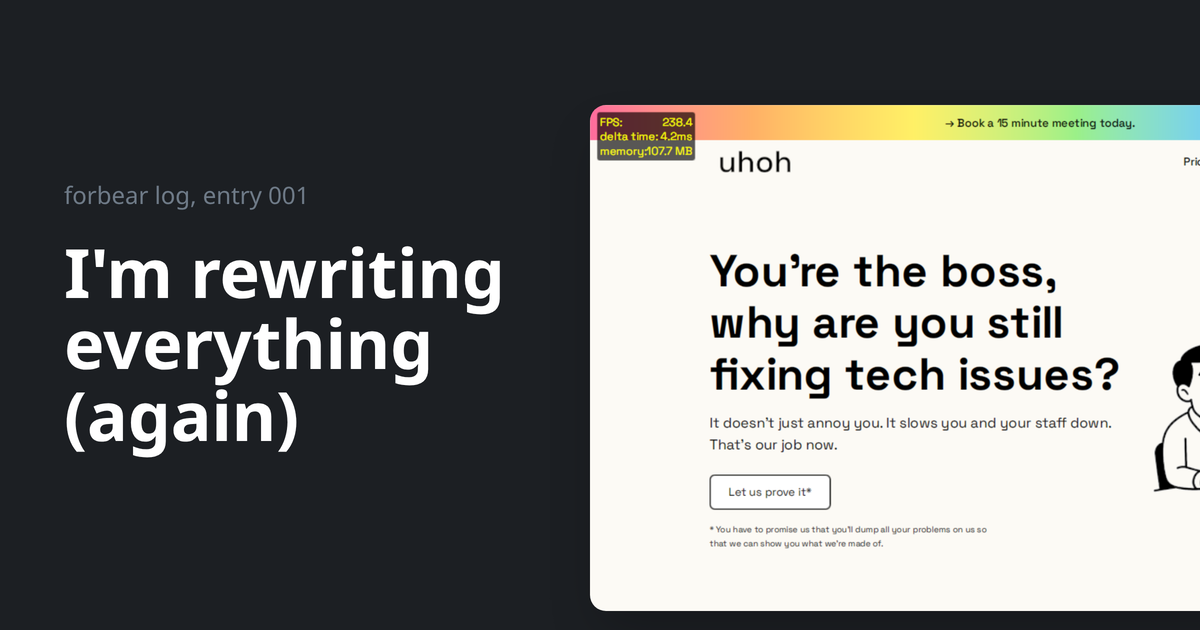
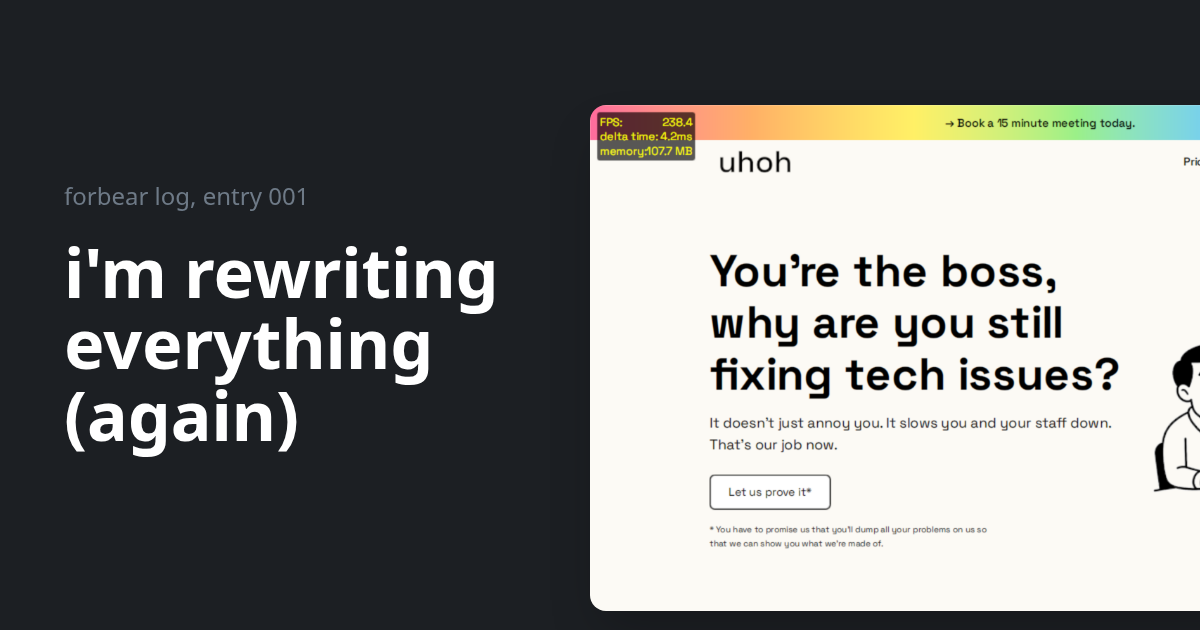
normalize into lower case mostly

Changed region(s): [[0.0308, 0.3921, 0.4317, 0.5127], [0.0617, 0.3016, 0.2467, 0.3317]]

diff --git a/www/log/001-im-rewriting-everything-again.html b/www/log/001-im-rewriting-everything-again.html
@@ -3,19 +3,19 @@
 <head>
 <meta charset="utf-8">
 <meta name="viewport" content="width=device-width, initial-scale=1">
-<title>forbear log, entry 001: I'm rewriting everything (again)</title>
-<meta name="description" content="Why I'm rewriting forbear, my GUI framework, from Zig in Jai, and what I'm doing differently this time.">
+<title>forbear log, entry 001: i'm rewriting everything (again)</title>
+<meta name="description" content="why I'm rewriting forbear, my GUI framework, from Zig in Jai, and what I'm doing differently this time.">
 <meta property="og:type" content="article">
 <meta property="og:site_name" content="forbear">
 <meta property="og:url" content="https://www.forbear.dev/log/001-im-rewriting-everything-again.html">
-<meta property="og:title" content="I'm rewriting everything (again)">
-<meta property="og:description" content="Why I'm rewriting forbear, my GUI framework, from Zig in Jai, and what I'm doing differently this time.">
+<meta property="og:title" content="i'm rewriting everything (again)">
+<meta property="og:description" content="why I'm rewriting forbear, my GUI framework, from Zig in Jai, and what I'm doing differently this time.">
 <meta property="og:image" content="https://www.forbear.dev/assets/og-001.png">
 <meta property="og:image:width" content="1200">
 <meta property="og:image:height" content="630">
 <meta name="twitter:card" content="summary_large_image">
-<meta name="twitter:title" content="I'm rewriting everything (again)">
-<meta name="twitter:description" content="Why I'm rewriting forbear, my GUI framework, from Zig in Jai, and what I'm doing differently this time.">
+<meta name="twitter:title" content="i'm rewriting everything (again)">
+<meta name="twitter:description" content="why I'm rewriting forbear, my GUI framework, from Zig in Jai, and what I'm doing differently this time.">
 <meta name="twitter:image" content="https://www.forbear.dev/assets/og-001.png">
 <script src="https://cdn.jsdelivr.net/npm/@tailwindcss/browser@4"></script>
 <style type="text/tailwindcss">
@@ -62,7 +62,7 @@ pre .hl-string-special-symbol { font-style: italic; color: #aeb8c4; }
 <body>
 <main class="max-w-2xl mx-auto px-4 py-16">
 <p class="mt-0 mb-8"><a href="/">&larr; forbear</a></p>
-<h1>forbear log, entry 001: I'm rewriting everything (again)</h1>
+<h1>forbear log, entry 001: i'm rewriting everything (again)</h1>
 <p class="text-muted tabular-nums -mt-6"><time datetime="2026-09-25">2026-09-25</time></p>
 
 <p>I'm rewriting forbear from Zig in Jai, from scratch, once again.</p>
@@ -71,7 +71,7 @@ pre .hl-string-special-symbol { font-style: italic; color: #aeb8c4; }
 
 <p>I believe all software has become putrid, slow and unnecessarily wasteful with resources. This has been the only economically viable option because it's so insanely hard to build a desktop app, especially for web developers, who I perceive to be most of the programmers today. forbear is meant to change that.</p>
 
-<h2>Looking back</h2>
+<h2>looking back</h2>
 
 <p>I had the idea to write a Bible program. I wanted to read on my computer without ads and such, so I tried Tauri, since I thought Electron would be slow. It turned out to be very slow on Linux too, because the webviews there aren't very good. That's when the idea for forbear started:</p>
 
@@ -128,9 +128,9 @@ pre .hl-string-special-symbol { font-style: italic; color: #aeb8c4; }
     <span class="hl-delimiter">})</span><span class="hl-punctuation-delimiter">;</span>
 <span class="hl-delimiter">}</span></code></pre>
 
-<h2>Why I'm starting over</h2>
+<h2>why i'm starting over</h2>
 
-<h3>Zig doesn't fit forbear</h3>
+<h3>zig doesn't fit forbear</h3>
 
 <p>The previous version was written in Zig, and Zig doesn't seem to be the best language for this project. For the sake of its principles, I feel like Zig ends up making decisions that have more cons than pros. For example, being forced to handle return values means you can't forget to handle an error, but it also rules out an entire category of APIs I could implement. And that has no practical benefit for me, since I have never forgotten to handle a returned error or value that I needed.</p>
 
@@ -153,11 +153,11 @@ pre .hl-string-special-symbol { font-style: italic; color: #aeb8c4; }
 
 <p>Another problem is generating bindings for C++ and Objective-C. I want JavaScript developers to use forbear too, so I plan to embed Node, similar to what I've done in <a href="https://github.com/gabrielmfern/pulgar">pulgar</a>. Node is written in C++, and Zig can only import C headers, so I would need to write a C wrapper for everything I use. Windowing on macOS has a similar problem: Zig has no Objective-C support, so I would have to call the Objective-C runtime by hand, which would make the code extremely hard to maintain.</p>
 
-<h3>I'm still learning</h3>
+<h3>i'm still learning</h3>
 
 <p>I don't think I can invent the de facto standard for building GUI applications on my first iteration. First and foremost, I'm inexperienced in graphics, low-level work and many other things this endeavour requires. On top of that, I believe multiple iterations are what lead to better design in just about anything, so I think this fits right in.</p>
 
-<h3>Why Jai</h3>
+<h3>why Jai</h3>
 
 <p>The language I've picked is Jai. It's Jonathan Blow's language, currently in private beta, that I learned about from some of his talks. Jai is still only its working name. It can generate bindings straight from C++ headers, and it ships with bindings for AppKit, Foundation, Windows, OpenGL and Vulkan, all important things I need for this project. Jai has no error system, which means I can pick whatever is best for forbear. It also has a macro system I can use, and it doesn't make any of the extreme, principle-driven choices that Zig makes.</p>
 
@@ -165,7 +165,7 @@ pre .hl-string-special-symbol { font-style: italic; color: #aeb8c4; }
 
 <p>Jonathan Blow's ideas about simplicity are very close to what forbear is meant to be. Jai feels like what C++ should have been. forbear is meant to be what the operating system should give us for free.</p>
 
-<h2>What I'm doing differently</h2>
+<h2>what i'm doing differently</h2>
 
 <p>The first, smaller thing is implementing my own version of libwayland for the project. libwayland is really stupid to work with: the API is very annoying because of all the callbacks, which force me to allocate stuff I shouldn't need to, move void pointers around just to get data, or create global variables, none of which is necessary. The Wayland protocol naturally fits a while loop that processes each event from the compositor, so I implemented my own from scratch, talking to the compositor over the socket. It's definitely not as refined as libwayland yet, but after two days of work I already have a window that opens, resizes and draws a checkerboard in a shared pixel buffer.</p>
 

diff --git a/www/log/002-text-macos-and-nodes.html b/www/log/002-text-macos-and-nodes.html
@@ -72,7 +72,7 @@ pre .hl-string-special-symbol { font-style: italic; color: #aeb8c4; }
 <img src="../assets/2026-10-03-linux-window.png" alt="The forbear playground on Linux under Hyprland: the same magenta rectangle with &quot;hello lisa&quot; in its top left corner" class="h-[30rem] w-auto max-w-none rounded-lg">
 </div>
 
-<h2>Nodes</h2>
+<h2>nodes</h2>
 
 <p>This is the whole playground app right now:</p>
 
@@ -143,7 +143,7 @@ node<span class="hl-punctuation-delimiter">.</span>key <span class="hl-operator"
 
 <p>Like the previous version, nodes live in one flat array. Each node points to its parent, children and siblings by index into the flat array. This is fully based on the idea from <a href="https://youtu.be/ShSGHb65f3M?si=rBw1AylZchgbExme">this awesome interview in Wookash's Podcast with Anton Mikhailov</a>.</p>
 
-<h2>Text</h2>
+<h2>text</h2>
 
 <img src="../assets/2026-10-02-text-rendering.png" alt="&quot;hello lisa&quot; rendered by forbear in large white text on a black window" class="block my-6 rounded-lg">
 

diff --git a/www/og/002-text-macos-and-nodes.html b/www/og/002-text-macos-and-nodes.html
@@ -27,7 +27,7 @@ pre .hl-string { font-style: italic; color: #b8a36a; }
   <div class="absolute left-16 top-0 bottom-0 w-[500px] flex flex-col justify-center gap-6">
     <p class="text-2xl text-muted">forbear log, entry 002</p>
     <h1 class="text-[64px] leading-[1.05] font-bold text-bright">text, macOS<br>and nodes!</h1>
-    <p class="text-xl leading-snug text-muted">The Jai rewrite draws its first nodes and text, on Linux and on macOS.</p>
+    <p class="text-xl leading-snug text-muted">the Jai rewrite draws its first nodes and text, on Linux and on macOS.</p>
   </div>
   <div class="absolute left-[590px] top-[56px] flex flex-col gap-6">
     <pre class="m-0 w-[560px] bg-float text-fg text-[17px] leading-snug p-6 rounded-2xl"><code><span class="hl-function">element</span><span class="hl-delimiter">(</span><span class="hl-type">Style</span><span class="hl-punctuation-delimiter">.</span><span class="hl-delimiter">{</span>

diff --git a/www/index.html b/www/index.html
@@ -56,7 +56,7 @@
 
 <ul class="my-8 space-y-1">
 <li class="flex gap-4"><span class="text-muted tabular-nums shrink-0">2026-10-03</span><span class="text-muted tabular-nums shrink-0">002</span><a href="log/002-text-macos-and-nodes.html">text, macOS and nodes!</a></li>
-<li class="flex gap-4"><span class="text-muted tabular-nums shrink-0">2026-09-25</span><span class="text-muted tabular-nums shrink-0">001</span><a href="log/001-im-rewriting-everything-again.html">I'm rewriting everything (again)</a></li>
+<li class="flex gap-4"><span class="text-muted tabular-nums shrink-0">2026-09-25</span><span class="text-muted tabular-nums shrink-0">001</span><a href="log/001-im-rewriting-everything-again.html">i'm rewriting everything (again)</a></li>
 </ul>
 
 <form id="subscribe" class="flex items-center gap-2 mt-12 text-sm text-muted">

diff --git a/www/og/001-im-rewriting-everything-again.html b/www/og/001-im-rewriting-everything-again.html
@@ -17,7 +17,7 @@
 <div id="og" class="relative w-[1200px] h-[630px] overflow-hidden bg-bg">
   <div class="absolute left-16 top-0 bottom-0 w-[470px] flex flex-col justify-center gap-6">
     <p class="text-2xl text-muted">forbear log, entry 001</p>
-    <h1 class="text-[68px] leading-[1.05] font-bold text-bright">I'm rewriting everything (again)</h1>
+    <h1 class="text-[68px] leading-[1.05] font-bold text-bright">i'm rewriting everything (again)</h1>
   </div>
   <img src="../assets/2026-07-forbear-zig-uhoh.png" class="absolute left-[590px] top-[105px] w-[900px] max-w-none rounded-2xl shadow-2xl">
 </div>
